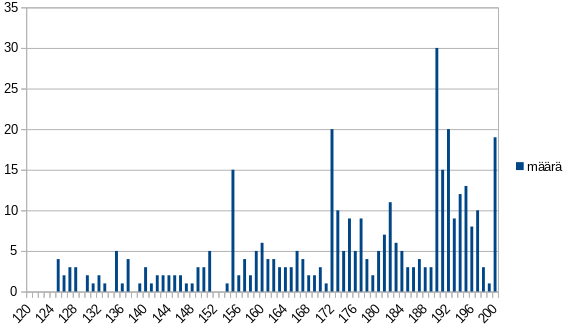
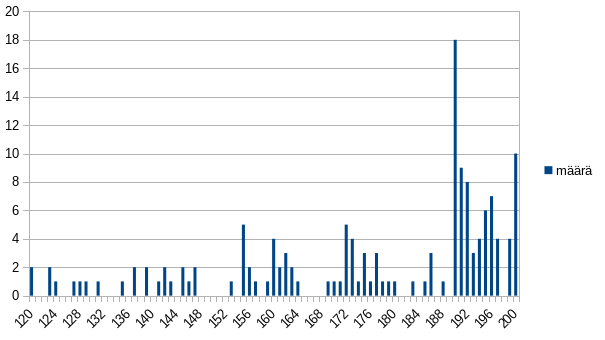
Julkaise tulokset ja palaute

Changed region(s): [[0.0, 0.0, 0.9912, 0.9756]]

diff --git a/_pages/tulokset.md b/_pages/tulokset.md
@@ -5,15 +5,15 @@ hidden: true
 
 # Kurssin tulokset
 
-Kurssille osallistui 699 opiskelijaa, joista 379 (54.2 %) suoritti kurssin hyväksytysti.
+Kurssille osallistui 366 opiskelijaa, joista 147 (40.2 %) suoritti kurssin hyväksytysti.
 
 ## Arvosanajakauma
 
-* Arvosana 1: 24 opiskelijaa (6.3 %)
-* Arvosana 2: 33 opiskelijaa (8.7 %)
-* Arvosana 3: 68 opiskelijaa (17.9 %)
-* Arvosana 4: 114 opiskelijaa (30.1 %)
-* Arvosana 5: 140 opiskelijaa (36.9 %)
+* Arvosana 1: 10 opiskelijaa (6.8 %)
+* Arvosana 2: 14 opiskelijaa (9.5 %)
+* Arvosana 3: 24 opiskelijaa (16.3 %)
+* Arvosana 4: 26 opiskelijaa (17.7 %)
+* Arvosana 5: 73 opiskelijaa (49.7 %)
 
 ## Pistejakauma
 
@@ -21,6 +21,6 @@ Kurssille osallistui 699 opiskelijaa, joista 379 (54.2 %) suoritti kurssin hyvä
 
 ## Ohjelmointikielet
 
-* Java: 85 opiskelijaa (22.4 %)
-* Python: 289 opiskelijaa (76.3 %)
-* muu: 5 opiskelijaa (1.3 %)
+* Java: 23 opiskelijaa (15.6 %)
+* Python: 122 opiskelijaa (83.0 %)
+* muu: 2 opiskelijaa (1.4 %)

diff --git a/_pages/tulokset_palaute.md b/_pages/tulokset_palaute.md
@@ -1,6 +1,5 @@
 ---
 title: Tulokset ja palaute
-hidden: true
 ---
 
 # Tulokset ja palaute
